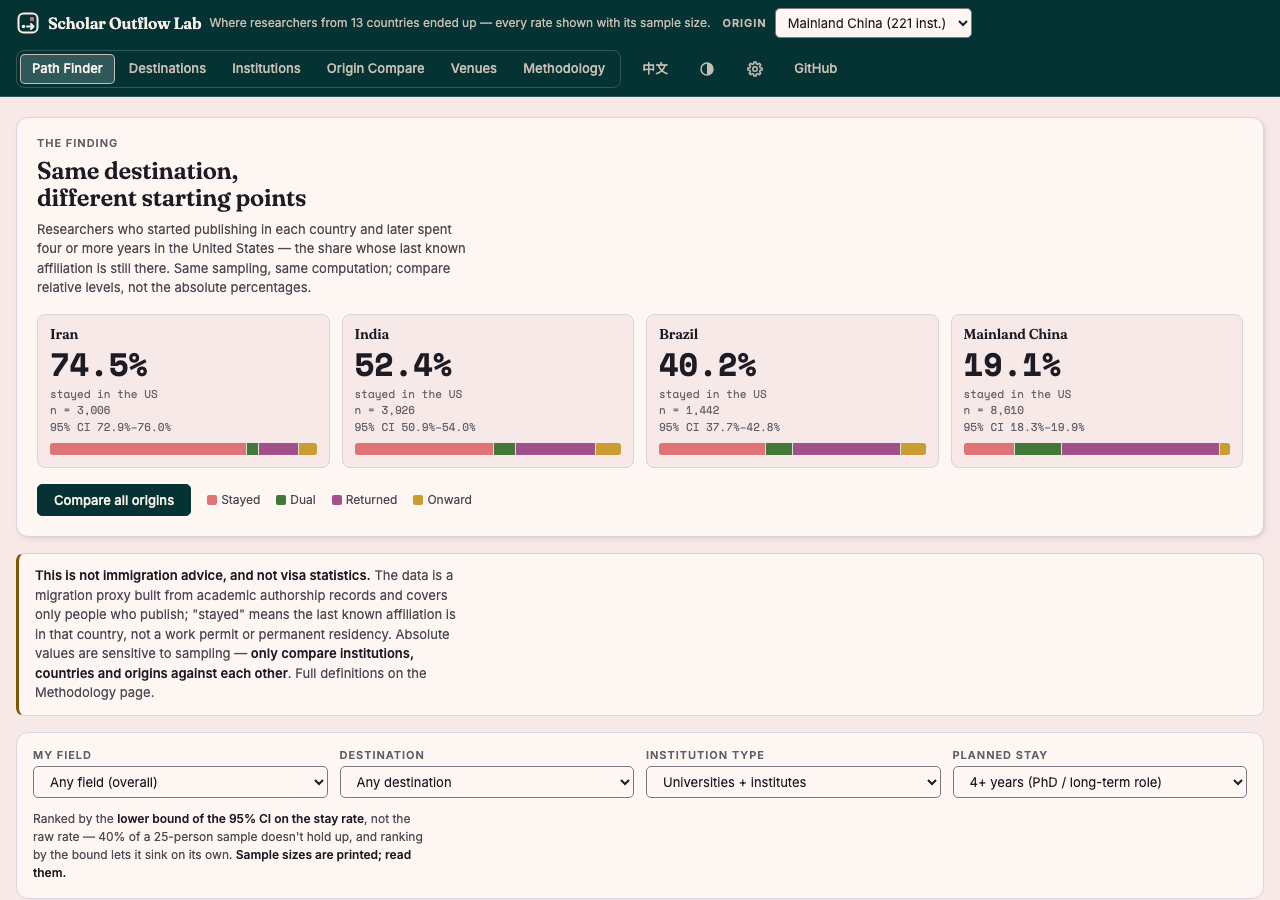
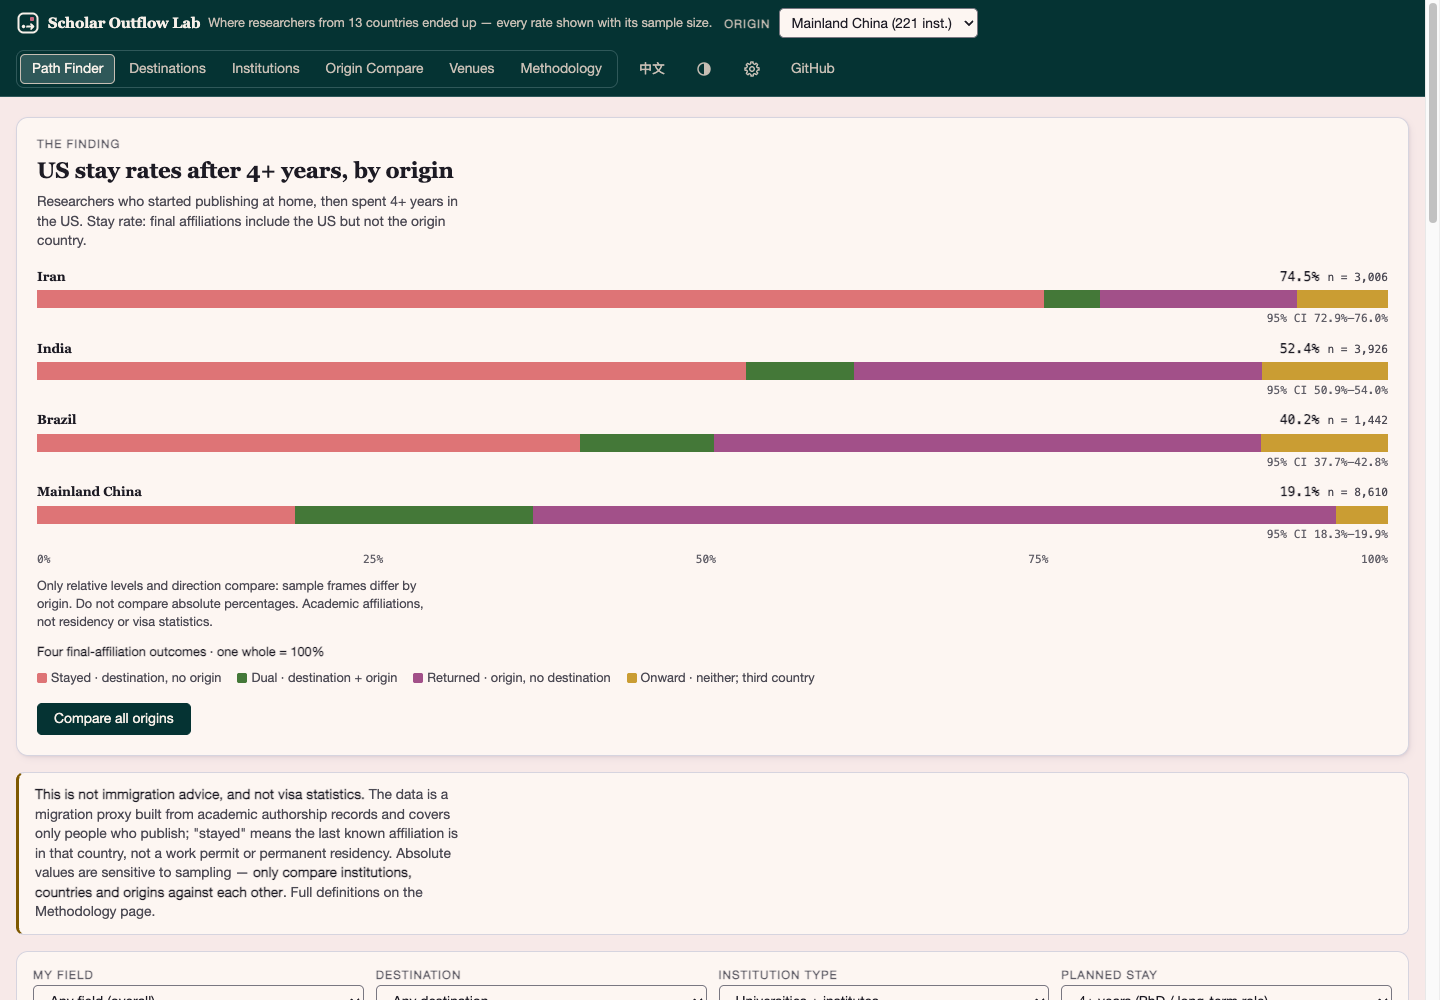
First screen: one chart of US stay rates after 4+ years for four origins, with n and 95% intervals
The four separate headline cards become one shared 0-100% chart: for Iran, India, Brazil and
Mainland China, the stay / dual / returned / onward split, each with its sample size and 95%
interval from the existing JSON, and the note that only relative levels compare across origins.
No data or pipeline change. Four renderer tests (one feeds changed input to catch hard-coded
figures), Node in the tests workflow; 36 tests pass, 13/13 mutations caught.

Changed region(s): [[0.0, 0.0, 1.0, 1.0], [0.5, 0.8089, 0.625, 0.9022], [0.75, 0.8089, 0.9062, 0.8711]]

diff --git a/index.html b/index.html
@@ -65,14 +65,19 @@ a{color:var(--accent-text);text-underline-offset:.18em;text-decoration-thickness
 /* ===== the finding (first screen) ===== */
 .finding{background:var(--paper);border:1px solid var(--border);border-radius:var(--radius-lg);box-shadow:var(--shadow-1);padding:var(--space-5);margin-bottom:var(--space-4)}
 .finding .eyebrow{font:var(--weight-semibold) var(--text-2xs)/1 var(--font-sans);letter-spacing:var(--tracking-caps);text-transform:uppercase;color:var(--text-3);margin-bottom:var(--space-2)}
-.finding h1{font-size:var(--text-2xl);max-width:26ch}
+.finding h1{font-size:var(--text-2xl);max-width:32ch}
 .finding .lede{color:var(--text-2);font-size:var(--text-sm);margin:var(--space-2) 0 var(--space-4);max-width:var(--measure)}
-.f-grid{display:grid;grid-template-columns:repeat(4,minmax(0,1fr));gap:var(--space-3)}
-.f-cell{border:1px solid var(--border);border-radius:var(--radius-md);padding:var(--space-3);background:var(--bg);min-width:0}
-.f-cell h2{font-size:var(--text-md);white-space:nowrap;overflow:hidden;text-overflow:ellipsis}
-.f-big{font:var(--weight-semibold) var(--text-3xl)/1.1 var(--font-mono);font-variant-numeric:tabular-nums;margin:var(--space-1) 0}
-.f-meta{font:var(--weight-regular) var(--text-2xs)/1.5 var(--font-mono);color:var(--text-3)}
-.f-cell .bar{margin-top:var(--space-2)}
+.f-row{margin-bottom:var(--space-3)}
+.f-label{display:flex;align-items:baseline;justify-content:space-between;gap:var(--space-2);margin-bottom:var(--space-1);font-size:var(--text-sm)}
+.f-label h2{font-size:var(--text-md)}
+.f-label .mono{white-space:nowrap;font-size:var(--text-sm)}
+.f-label small{font-size:var(--text-2xs);color:var(--text-2);font-weight:var(--weight-regular)}
+.f-row .cmp-n{text-align:right;margin-top:var(--space-1)}
+#finding-grid .bar{height:18px;gap:0;border-radius:0}
+.f-axis{display:flex;justify-content:space-between;font:var(--weight-regular) var(--text-2xs)/1 var(--font-mono);color:var(--text-3)}
+.f-limit{font-size:var(--text-xs);color:var(--text-2);margin:var(--space-3) 0;max-width:var(--measure)}
+.f-whole{font-size:var(--text-xs);font-weight:var(--weight-semibold);margin:0 0 var(--space-2)}
+#finding-legend{gap:var(--space-1) var(--space-4);margin:0}
 .f-foot{display:flex;flex-wrap:wrap;align-items:center;gap:var(--space-2) var(--space-4);margin-top:var(--space-4)}
 .btn{display:inline-flex;align-items:center;justify-content:center;gap:var(--space-1);height:var(--control-h);padding:0 var(--space-4);border-radius:var(--radius-sm);border:1px solid var(--border-input);background:var(--paper);color:var(--text);font-size:var(--text-sm);font-weight:var(--weight-medium);text-decoration:none;white-space:nowrap;transition:background-color var(--dur-fast) var(--ease-out),border-color var(--dur-fast) var(--ease-out),transform var(--dur-fast) var(--ease-out)}
 @media (hover:hover) and (pointer:fine){.btn:hover{background:var(--surface-hover)}}
@@ -206,9 +211,6 @@ tbody tr[tabindex]:focus-visible{outline-offset:-2px}
 .honest dd{margin:0;max-width:var(--measure);line-height:var(--leading-relaxed)}
 .foot{font:var(--weight-regular) var(--text-2xs)/1.5 var(--font-mono);color:var(--text-3);margin-bottom:var(--space-3)}
 
-@media (max-width:900px){
-  .f-grid{grid-template-columns:repeat(2,minmax(0,1fr))}
-}
 @media (max-width:720px){
   .wrap{padding:var(--space-3) var(--gutter)}
   .tb-in{gap:var(--space-2)}
@@ -222,7 +224,6 @@ tbody tr[tabindex]:focus-visible{outline-offset:-2px}
   .drawer .panel{padding:var(--space-4)}
   .finding{padding:var(--space-4)}
   .finding h1{font-size:var(--text-xl)}
-  .f-big{font-size:var(--text-2xl)}
   .chart{--ci-label:96px;--ci-val:64px}
   .ci-row,.ci-axis{gap:var(--space-2)}
   .gh{display:none}
@@ -319,10 +320,12 @@ table.data th.num button{justify-content:flex-end;width:100%}
     <div class="eyebrow" id="finding-eyebrow"></div>
     <h1 id="finding-h"></h1>
     <p class="lede" id="finding-lede"></p>
-    <div class="f-grid" id="finding-grid"></div>
+    <div id="finding-grid"></div>
+    <p class="f-limit" id="finding-limit"></p>
+    <p class="f-whole" id="finding-whole"></p>
+    <div class="legend" id="finding-legend"></div>
     <div class="f-foot">
       <button class="btn btn-primary" id="finding-cta" type="button"></button>
-      <div class="legend" id="finding-legend" style="margin:0"></div>
     </div>
   </section>
   <div class="notice" id="notice"></div>
@@ -510,9 +513,11 @@ en: {
   title:'Scholar Outflow Lab · Where home-grown researchers end up',
   brandLogo:'Scholar Outflow <b>Lab</b>', brandSub:'Where researchers from 13 countries ended up — every rate shown with its sample size.',
   skip:'Skip to content',
-  fEyebrow:'The finding', fTitle:'Same destination, different starting points',
-  fLede:'Researchers who started publishing in each country and later spent four or more years in the United States — the share whose last known affiliation is still there. Same sampling, same computation; compare relative levels, not the absolute percentages.',
-  fStay:'stayed in the US', fMeta:(n,ci)=>`n = ${n.toLocaleString()}<br>95% CI ${ci}`,
+  fEyebrow:'The finding', fTitle:'US stay rates after 4+ years, by origin',
+  fLede:'Researchers who started publishing at home, then spent 4+ years in the US. Stay rate: final affiliations include the US but not the origin country.',
+  fLimit:'Only relative levels and direction compare: sample frames differ by origin. Do not compare absolute percentages. Academic affiliations, not residency or visa statistics.',
+  fWhole:'Four final-affiliation outcomes · one whole = 100%',
+  fOut:{stay:'Stayed · destination, no origin',dual:'Dual · destination + origin',ret:'Returned · origin, no destination',onward:'Onward · neither; third country'},
   fCta:'Compare all origins', fLoading:'Loading the four origins…', fFail:m=>`The headline figures could not be loaded (${m}). The rest of the page does not depend on them.`, tryAgain:'Try again',
   cmpChartTitle:(dest,s)=>`Stay rate in ${dest} by starting country · ${s}`, cmpChartDest:'Destination', cmpChartAxis:'Bar: stay rate. Whisker: 95% confidence interval. Sorted by stay rate.',
   hAboutT:'About this data', hAbout:'Every number is computed by scripts/compute.py from OpenAlex authorship records (CC0) and served as static JSON; nothing is modelled or estimated by hand. The pipeline, its tests and the three corrections that made the numbers self-consistent are in the repository.',
@@ -594,9 +599,11 @@ zh: {
   title:'去向实验室 · 本土起步科研人员的流向',
   brandLogo:'去向<b>实验室</b>', brandSub:'13 个国家起步的研究者最后去了哪里——每个比率都标着样本量',
   skip:'跳到正文',
-  fEyebrow:'核心发现', fTitle:'同一个目的地，起点不同，去向差好几倍',
-  fLede:'在各国起步发表、之后在美国待满 4 年及以上的研究者中，最后已知任职机构仍在美国的比例。抽样与算法一致；比相对高低，不比绝对百分比。',
-  fStay:'留在美国', fMeta:(n,ci)=>`样本 ${n.toLocaleString()}<br>95% 区间 ${ci}`,
+  fEyebrow:'核心发现', fTitle:'在美国待满 4 年后，各起点的留下率',
+  fLede:'在本国起步发表、之后在美国待满 4 年及以上的研究者。留下率：最后已知署名包含美国、不含来源国的比例。',
+  fLimit:'只比较相对高低与方向：各来源国的样本框不同，不比较绝对百分比。学术署名是代理指标，不是居留或签证统计。',
+  fWhole:'四种末位署名去向 · 合计 100%',
+  fOut:{stay:'留下 · 有目的国、无来源国',dual:'双挂 · 目的国与来源国',ret:'回流 · 有来源国、无目的国',onward:'转道 · 两国均无、在第三国'},
   fCta:'对比全部起点', fLoading:'正在载入四个起点的数据…', fFail:m=>`核心数字载入失败（${m}）。页面其余部分不受影响。`, tryAgain:'重试',
   cmpChartTitle:(dest,s)=>`${dest} 的留下率 · 按起点 · ${s}`, cmpChartDest:'目的国', cmpChartAxis:'实心条：留下率。须线：95% 置信区间。按留下率排序。',
   hAboutT:'关于这些数据', hAbout:'每个数字都由 scripts/compute.py 从 OpenAlex 署名记录（CC0）算出，以静态 JSON 提供；没有人工估算或建模。流水线、测试与让数字自洽的三处口径修正都在仓库里。',
@@ -1073,8 +1080,10 @@ function renderFinding(){
   document.getElementById('finding-eyebrow').textContent = t('fEyebrow');
   document.getElementById('finding-h').textContent = t('fTitle');
   document.getElementById('finding-lede').textContent = t('fLede');
+  document.getElementById('finding-limit').textContent = t('fLimit');
+  document.getElementById('finding-whole').textContent = t('fWhole');
   document.getElementById('finding-cta').textContent = t('fCta');
-  document.getElementById('finding-legend').innerHTML = OUT_KEYS.map(([k,c]) => `<span><i style="background:${c}"></i>${t('out')[k]}</span>`).join('');
+  document.getElementById('finding-legend').innerHTML = OUT_KEYS.map(([k,c]) => `<span><i style="background:${c}"></i>${t('fOut')[k]}</span>`).join('');
   const grid = document.getElementById('finding-grid');
   const ready = FINDING_ORIGINS.every(cc => S.allData[cc]);
   if(!ready){
@@ -1090,12 +1099,11 @@ function renderFinding(){
     const us = (d.countries || []).find(c => c.cc === 'us');
     return us && us.strata.long ? {cc, name: originName(d.meta), s: us.strata.long} : null;
   }).filter(Boolean).sort((a,b) => b.s.stay - a.s.stay);
-  grid.innerHTML = rows.map(r => `<div class="f-cell">
-      <h2>${esc(r.name)}</h2>
-      <div class="f-big">${pc(r.s.stay)}</div>
-      <div class="f-meta">${t('fStay')}<br>${t('fMeta')(r.s.n, r.s.stay_ci ? pc(r.s.stay_ci[0]) + '–' + pc(r.s.stay_ci[1]) : '—')}</div>
-      <div class="bar" role="img" aria-label="${OUT_KEYS.map(([k]) => t('out')[k] + ' ' + pc(r.s[k])).join(', ')}">${OUT_KEYS.map(([k,c]) => r.s[k] ? `<span style="width:${r.s[k]*100}%;background:${c}"></span>` : '').join('')}</div>
-    </div>`).join('');
+  grid.innerHTML = rows.map(r => `<div class="f-row">
+      <div class="f-label"><h2>${esc(r.name)}</h2><b class="mono">${pc(r.s.stay)} <small>n = ${r.s.n.toLocaleString()}</small></b></div>
+      <div class="bar" role="img" aria-label="${esc(r.name)}: ${OUT_KEYS.map(([k]) => t('out')[k] + ' ' + pc(r.s[k])).join(', ')}; n = ${r.s.n}; 95% CI ${r.s.stay_ci ? r.s.stay_ci.map(pc).join('–') : '—'}">${OUT_KEYS.map(([k,c]) => `<span title="${t('out')[k]} ${pc(r.s[k])}" style="width:${r.s[k]*100}%;background:${c}"></span>`).join('')}</div>
+      <div class="cmp-n">95% CI ${r.s.stay_ci ? r.s.stay_ci.map(pc).join('–') : '—'}</div>
+    </div>`).join('') + `<div class="f-axis" aria-hidden="true">${[0,25,50,75,100].map(v => `<span>${v}%</span>`).join('')}</div>`;
 }
 
 /* ── compare chart: one destination, every origin, stay rate with its 95% interval ── */

diff --git a/tests/test_firstscreen.py b/tests/test_firstscreen.py
@@ -1,0 +1,68 @@
+"""The first-screen chart must render the actual data, its whole, and its limits."""
+import json
+from pathlib import Path
+import re
+import subprocess
+import unittest
+
+ROOT = Path(__file__).resolve().parents[1]
+
+
+def render(lang="en", changed=False):
+    result = subprocess.run(["node", str(ROOT / "tests/render_firstscreen.mjs"), lang,
+                             "changed" if changed else "published"], capture_output=True, text=True, check=True)
+    return json.loads(result.stdout)
+
+
+class TestFirstScreen(unittest.TestCase):
+    def test_one_chart_with_four_origins_on_a_common_percent_axis(self):
+        page = render()
+        chart = page["finding-grid"]["innerHTML"]
+        self.assertEqual(chart.count('class="f-row"'), 4)
+        for name, rate, n in [("Iran", "74.5%", "3,006"), ("India", "52.4%", "3,926"),
+                              ("Brazil", "40.2%", "1,442"), ("Mainland China", "19.1%", "8,610")]:
+            for text in (name, rate, n):
+                self.assertIn(text, chart)
+        for tick in ("0%", "25%", "50%", "75%", "100%"):
+            self.assertIn(tick, chart)
+        self.assertIn("4+", page["finding-h"]["textContent"])
+        self.assertIn("US", page["finding-h"]["textContent"])
+
+    def test_four_outcomes_are_one_whole_with_plain_definitions(self):
+        page = render()
+        chart = page["finding-grid"]["innerHTML"]
+        self.assertEqual(chart.count('class="bar"'), 4)
+        self.assertEqual(chart.count('title="'), 16)
+        widths = [float(w) for w in re.findall(r'width:([\d.]+)%', chart)]
+        self.assertEqual(len(widths), 16)
+        for row, cc in enumerate(("ir", "in", "br", "cn")):
+            data = json.loads((ROOT / f"data/data-{cc}.json").read_text())
+            s = next(c for c in data["countries"] if c["cc"] == "us")["strata"]["long"]
+            for part, key in enumerate(("stay", "dual", "ret", "onward")):
+                self.assertAlmostEqual(widths[row * 4 + part], s[key] * 100)
+            self.assertAlmostEqual(sum(widths[row * 4:row * 4 + 4]), 100, delta=0.02)
+        legend = page["finding-legend"]["innerHTML"]
+        for definition in ("destination, no origin", "destination + origin", "origin, no destination", "third country"):
+            self.assertIn(definition, legend)
+        self.assertIn("100%", page["finding-whole"]["textContent"])
+
+    def test_relative_comparison_warning_is_directly_under_chart_in_both_languages(self):
+        html = (ROOT / "index.html").read_text()
+        self.assertRegex(html[html.index('<section class="finding"'):html.index('<!-- Path finder -->')],
+                         r'id="finding-grid"[^>]*></div>\s*<p[^>]*id="finding-limit"')
+        for lang, words in [("en", ("relative levels", "sample frames", "absolute percentages")),
+                            ("zh", ("相对", "样本框", "绝对百分比"))]:
+            with self.subTest(lang=lang):
+                limit = render(lang)["finding-limit"]["textContent"]
+                for word in words:
+                    self.assertIn(word, limit)
+
+    def test_chart_responds_to_data_including_sample_size_and_interval(self):
+        chart = render(changed=True)["finding-grid"]["innerHTML"]
+        for text in ("50.0%", "600", "46.0%", "54.0%", "width:50%"):
+            self.assertIn(text, chart)
+        self.assertNotIn("74.5%", chart)
+
+
+if __name__ == "__main__":
+    unittest.main()

diff --git a/README.md b/README.md
@@ -10,7 +10,7 @@ public data with a zero-dependency stack.
 
 **Live:** https://nickkklian.github.io/Scholar-Outflow-Lab/ — English by default, 中文 toggle in the header.
 
-![Origin comparison — the same destination, different starting points](docs/screenshot-compare.png)
+![US stay rates after four or more years, by origin — sample sizes and all four outcomes](docs/screenshot-match.png)
 
 ---
 
@@ -179,7 +179,13 @@ resumes from the last completed seed.
 python3 -m unittest discover -s tests -v
 ```
 
-Standard library only, like the pipeline. Two layers:
+Python standard library, plus Node.js 22 for the first-screen renderer tests (built-in `vm`, no packages to install).
+Three layers:
+
+- **The first screen against the published data.** The page's real JavaScript renderer must show four origins on
+  one percentage axis, with stay rates and sample sizes read from the JSON, four outcomes making a whole, plain
+  definitions, and the relative-comparison warning immediately under the chart in English and Chinese. A changed
+  input checks that the headline, sample size and interval respond to the data.
 
 - **The pipeline against a plan it did not write.** `tests/make_fixture.py` generates 200 synthetic careers
   (origin `xa`, a private-use code; `Synthetic University …` institutions) and decides every person's
